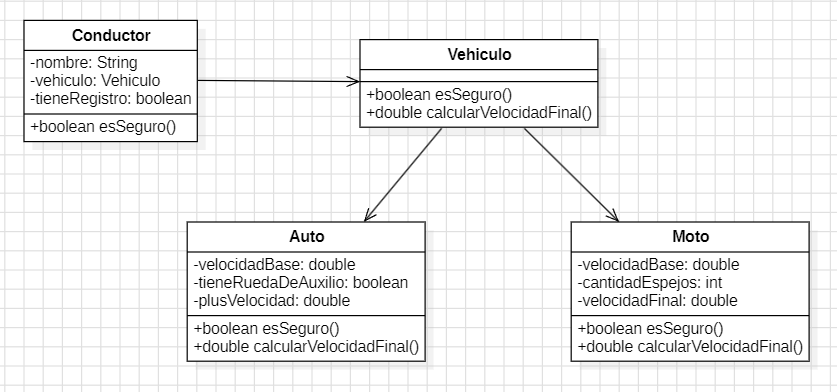
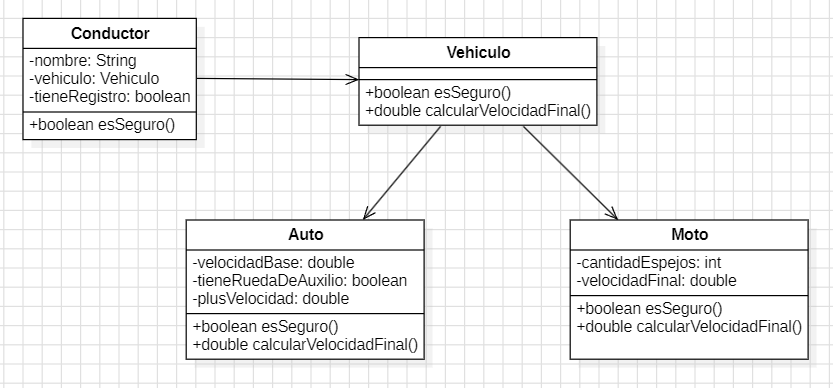
Ejercicio 4 terminado con JUnit

diff --git a/src/seguridadVial/Auto.java b/src/seguridadVial/Auto.java
@@ -1,0 +1,41 @@
+package seguridadVial;
+
+public class Auto implements Vehiculo {
+    private double velocidadBase;
+    private boolean tieneRuedaDeAux;
+    private double plusVelocidad;
+
+    @Override
+    public boolean esSeguro() {
+        return tieneRuedaDeAux && calcularVelocidadFinal() <= 140;
+    }
+
+    @Override
+    public double calcularVelocidadFinal() {
+        return velocidadBase + plusVelocidad;
+    }
+
+    public double getVelocidadBase() {
+        return velocidadBase;
+    }
+
+    public void setVelocidadBase(double velocidadBase) {
+        this.velocidadBase = velocidadBase;
+    }
+
+    public boolean isTieneRuedaDeAux() {
+        return tieneRuedaDeAux;
+    }
+
+    public void setTieneRuedaDeAux(boolean tieneRuedaDeAux) {
+        this.tieneRuedaDeAux = tieneRuedaDeAux;
+    }
+
+    public double getPlusVelocidad() {
+        return plusVelocidad;
+    }
+
+    public void setPlusVelocidad(double plusVelocidad) {
+        this.plusVelocidad = plusVelocidad;
+    }
+}

diff --git a/src/seguridadVial/TestConductor.java b/src/seguridadVial/TestConductor.java
@@ -1,0 +1,30 @@
+package seguridadVial;
+
+import junit.framework.TestCase;
+
+public class TestConductor extends TestCase {
+    Auto auto = new Auto();
+    Moto moto = new Moto();
+    Conductor conductorUno = new Conductor();
+
+    public void setUp() {
+        conductorUno.setNombre("conductor uno");
+        conductorUno.setVehiculo(auto);
+        conductorUno.setTieneRegistro(true);
+        auto.setVelocidadBase(100);
+        auto.setTieneRuedaDeAux(true);
+        auto.setPlusVelocidad(30);
+    }
+
+    public void testConductorEsSeguro() {
+        assertTrue(conductorUno.esSeguro());
+    }
+
+    public void testAutoEsSeguro() {
+        assertTrue(auto.esSeguro());
+    }
+
+    public void testAutoVelocidadFinal() {
+        assertTrue(auto.calcularVelocidadFinal() == 130);
+    }
+}

diff --git a/src/seguridadVial/Moto.java b/src/seguridadVial/Moto.java
@@ -1,0 +1,32 @@
+package seguridadVial;
+
+public class Moto implements Vehiculo {
+    private int cantidadEspejos;
+    private double velocidadFinal;
+
+    @Override
+    public boolean esSeguro() {
+        return cantidadEspejos >= 2 && velocidadFinal <= 160;
+    }
+
+    @Override
+    public double calcularVelocidadFinal() {
+        return velocidadFinal;
+    }
+
+    public int getCantidadEspejos() {
+        return cantidadEspejos;
+    }
+
+    public void setCantidadEspejos(int cantidadEspejos) {
+        this.cantidadEspejos = cantidadEspejos;
+    }
+
+    public double getVelocidadFinal() {
+        return velocidadFinal;
+    }
+
+    public void setVelocidadFinal(double velocidadFinal) {
+        this.velocidadFinal = velocidadFinal;
+    }
+}

diff --git a/src/seguridadVial/Conductor.java b/src/seguridadVial/Conductor.java
@@ -1,0 +1,35 @@
+package seguridadVial;
+
+public class Conductor {
+    private String nombre;
+    private Vehiculo vehiculo;
+    private boolean tieneRegistro;
+
+    public boolean esSeguro(){
+        return tieneRegistro && vehiculo.esSeguro();
+    }
+
+    public String getNombre() {
+        return nombre;
+    }
+
+    public void setNombre(String nombre) {
+        this.nombre = nombre;
+    }
+
+    public Vehiculo getVehiculo() {
+        return vehiculo;
+    }
+
+    public void setVehiculo(Vehiculo vehiculo) {
+        this.vehiculo = vehiculo;
+    }
+
+    public boolean isTieneRegistro() {
+        return tieneRegistro;
+    }
+
+    public void setTieneRegistro(boolean tieneRegistro) {
+        this.tieneRegistro = tieneRegistro;
+    }
+}

diff --git a/src/seguridadVial/Vehiculo.java b/src/seguridadVial/Vehiculo.java
@@ -1,0 +1,7 @@
+package seguridadVial;
+
+public interface Vehiculo {
+
+    public boolean esSeguro();
+    public double calcularVelocidadFinal();
+}
